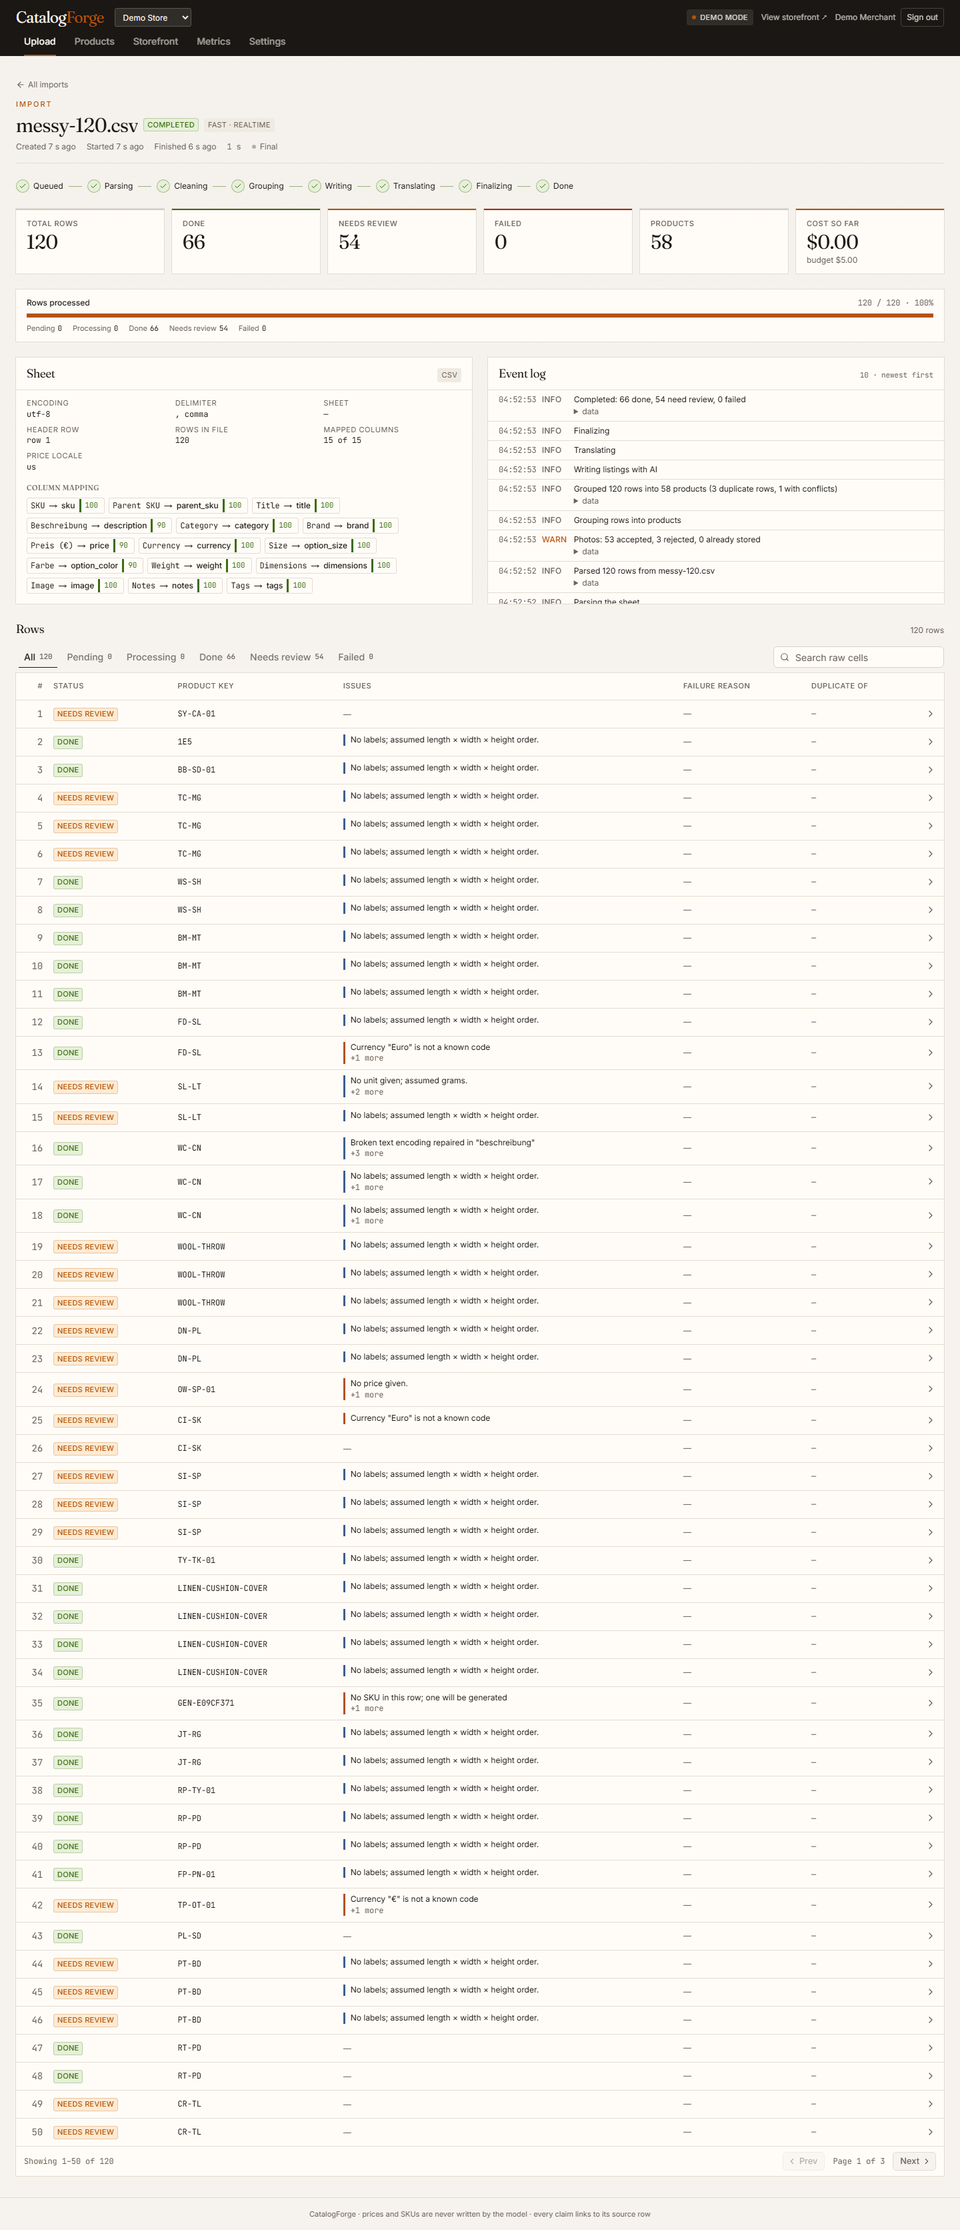
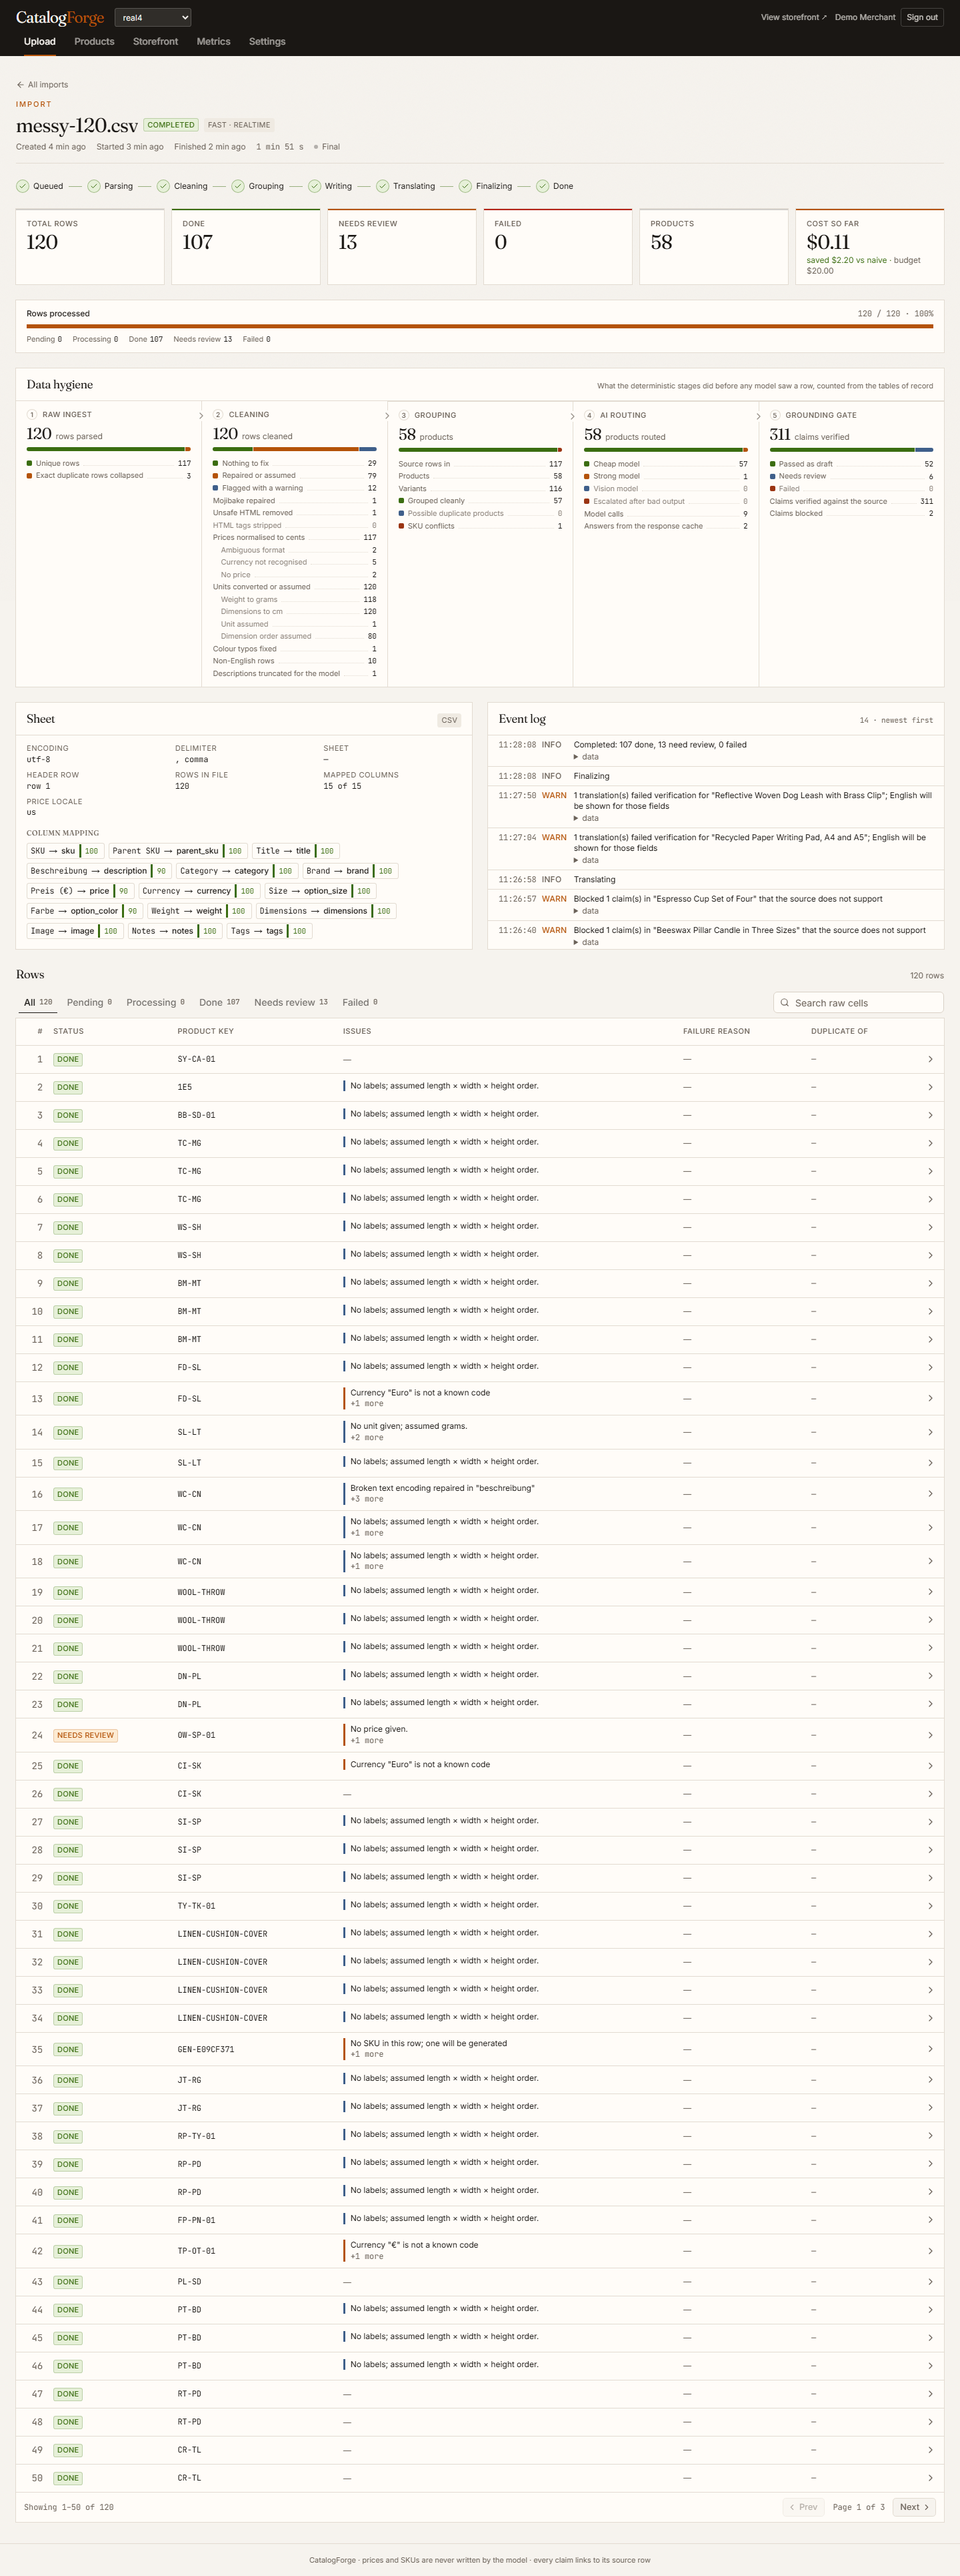
docs: screenshots of the hygiene pipeline, review drawer guardrails and X-ray, photo tray and cost strategies; full translation chip labels

diff --git a/src/components/products/products-columns.tsx b/src/components/products/products-columns.tsx
@@ -38,7 +38,7 @@ function TranslationChips({ t }: { t: ProductListItem["translations"] }) {
       {chips.map((c) => (
         <span key={c.label} className={cn("inline-flex h-4 items-center gap-0.5 px-1 text-[10px] ring-1 ring-inset", c.className)} title={`${c.n} ${c.label}`}>
           <span className="num">{c.n}</span>
-          <span className="uppercase tracking-wide">{c.label.slice(0, 4)}</span>
+          <span className="uppercase tracking-wide">{c.label}</span>
         </span>
       ))}
     </span>

diff --git a/README.md b/README.md
@@ -136,9 +136,10 @@ Local machine, Docker Postgres. The first block uses the demo provider (determin
 
 ## Dashboard
 
-![Products](docs/screenshots/04-products.png)
-![Review drawer](docs/screenshots/05-review-drawer.png)
-![Metrics](docs/screenshots/06-metrics.png)
+![Data hygiene pipeline on the import page](docs/screenshots/03b-hygiene.png)
+![Products with the unmatched-photos tray](docs/screenshots/04-products.png)
+![Review drawer: claims, guardrails and the cleaning X-ray](docs/screenshots/05c-cleaning-xray.png)
+![Metrics with the cost strategies table](docs/screenshots/06-metrics.png)
 ![Storefront](docs/screenshots/10-storefront-product.png)
 
 - **Upload:** drag-and-drop sheet + photos/ZIP, Fast vs Economy, budget, live SSE progress with a stage stepper, KPIs, sheet mapping, event log and a filterable per-row table with issues and reasons. Also accepts a `mysqldump` / `pg_dump` of a product table (`.sql`, parsed in memory, never executed) and a pasted public Google Sheets link, fetched from docs.google.com only, which then follows the exact same path as an uploaded file. The import page draws a data-hygiene flow: per stage, what the deterministic pipeline did (duplicates collapsed, mojibake and unsafe HTML repaired, prices and units normalised, conflicts and possible duplicates, routing by tier, response-cache hits, claims verified or blocked), every count taken from the tables of record.
